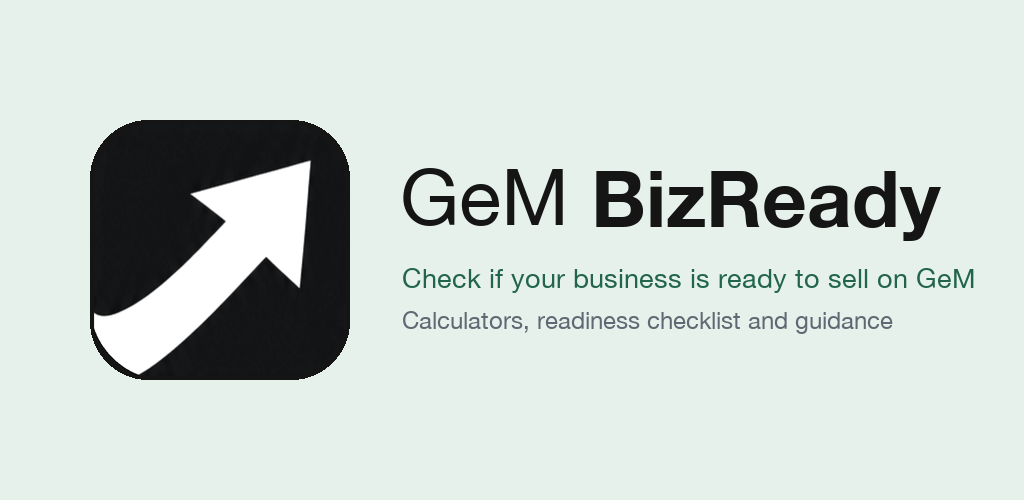
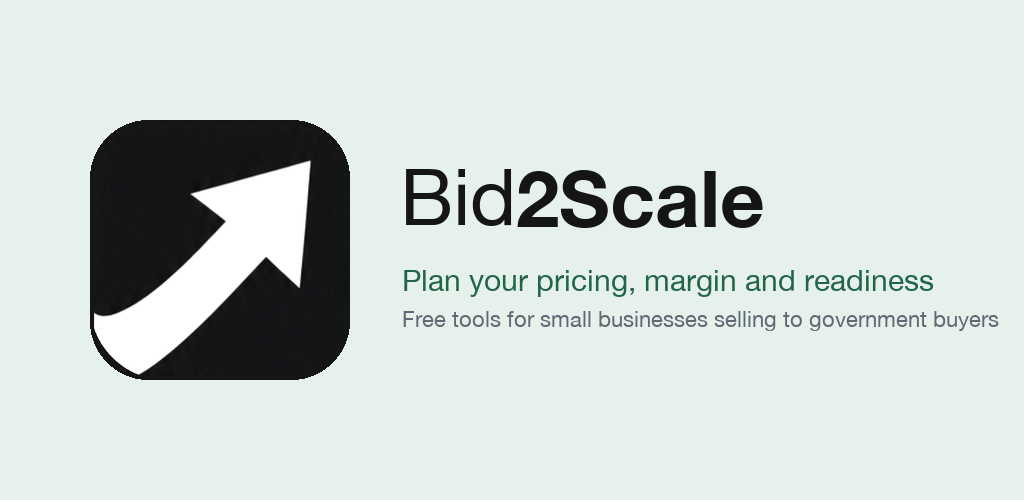
playstore done

Changed region(s): [[0.375, 0.33, 0.9375, 0.48], [0.375, 0.54, 0.9688, 0.6], [0.375, 0.63, 0.9688, 0.66]]

diff --git a/web/index.html b/web/index.html
@@ -33,7 +33,7 @@
   <link rel="manifest" href="manifest.json">
 </head>
 <body style="background:#F6F7F2">
-  <div id="loading" role="status" style="font:16px system-ui;color:#163E36;text-align:center;padding:20vh 24px">GeM BizReady · आपकी अगली शुरुआत…</div>
+  <div id="loading" role="status" style="font:16px system-ui;color:#163E36;text-align:center;padding:20vh 24px">Bid2Scale · आपकी अगली शुरुआत…</div>
   <script>window.addEventListener("flutter-first-frame", () => document.getElementById("loading")?.remove());</script>
   <!--
     You can customize the "flutter_bootstrap.js" script.

diff --git a/lib/features/brand_logo.dart b/lib/features/brand_logo.dart
@@ -31,9 +31,9 @@ class BrandLogo extends StatelessWidget {
   const BrandLogo({super.key, required this.variant, required this.width});
 
   static const _assetFor = {
-    BrandLogoVariant.full: 'assets/brand/gem-bizready-logo-full.png',
-    BrandLogoVariant.lockup: 'assets/brand/gem-bizready-logo-lockup.png',
-    BrandLogoVariant.mark: 'assets/brand/gem-bizready-logo-mark.png',
+    BrandLogoVariant.full: 'assets/brand/bid2scale-logo-full.png',
+    BrandLogoVariant.lockup: 'assets/brand/bid2scale-logo-lockup.png',
+    BrandLogoVariant.mark: 'assets/brand/bid2scale-logo-mark.png',
   };
 
   @override

diff --git a/docs/animation-prompts.md b/docs/animation-prompts.md
@@ -1,11 +1,11 @@
-# GeM BizReady: animation prompts
+# Bid2Scale: animation prompts
 
 Paste the **context prompt** once at the start of a session, then run the prompts one at a time in order. Test on a device after each prompt before moving on.
 
 ## 0. Context prompt (paste first)
 
 ```
-You are working in a Flutter app (GeM BizReady) at the repo root. Key files:
+You are working in a Flutter app (Bid2Scale) at the repo root. Key files:
 - lib/main.dart: SplashGate, route table (flowPages), onGenerateRoute using MaterialPageRoute
 - lib/core/theme.dart: colours and ThemeData
 - lib/features/onboarding_widgets.dart: OnboardingStepScaffold (GlassBar header with back button, logo, progress bar, section/step labels; scrolling body; GlassBar bottom Continue button), OnboardingTextField, OnboardingPickerField, OnboardingRadioOption, OnboardingCheckOption
